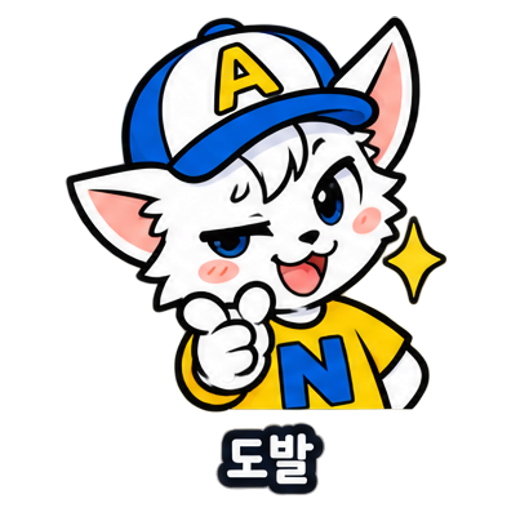
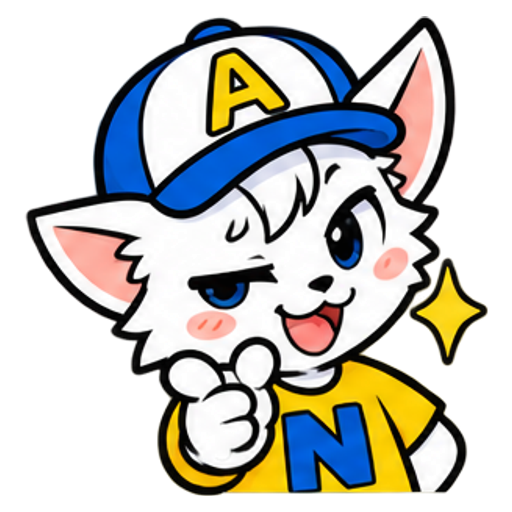
Crop emoji captions and enlarge desktop room panel by 1.5

diff --git a/WebBattle/tests/browser/naro-art.spec.ts b/WebBattle/tests/browser/naro-art.spec.ts
@@ -1,9 +1,9 @@
 import {test,expect,guestContext} from './fixtures.js';import {defaultHubSave} from '../../shared/store.js';import {NARO_EMOTES,DUST_EMOTE_IDS} from '../../shared/emotes.js';
 for(const size of ['desktop','landscape','portrait'] as const)test(`Naro art six free dust exchange ranking and tabs ${size}`,async({browser})=>{
- const mobile=size!=='desktop',viewport=size==='desktop'?{width:1366,height:900}:size==='landscape'?{width:844,height:390}:{width:390,height:844};const context=await guestContext(browser,{viewport,isMobile:mobile,hasTouch:mobile});if(size==='landscape')await context.addInitScript(()=>Object.defineProperty(window,'visualViewport',{value:Object.assign(new EventTarget(),{width:844,height:330,offsetTop:20,offsetLeft:0,scale:1})}));const page=await context.newPage(),errors:string[]=[];page.on('pageerror',e=>errors.push(e.message));const store=defaultHubSave();store.dust=400;const community={rankGames:0,friends:[],incoming:[],outgoing:[],invites:[],store},sent:any[]=[];
+ const mobile=size!=='desktop',viewport=size==='desktop'?{width:1920,height:1080}:size==='landscape'?{width:844,height:390}:{width:390,height:844};const context=await guestContext(browser,{viewport,isMobile:mobile,hasTouch:mobile});if(size==='landscape')await context.addInitScript(()=>Object.defineProperty(window,'visualViewport',{value:Object.assign(new EventTarget(),{width:844,height:330,offsetTop:20,offsetLeft:0,scale:1})}));const page=await context.newPage(),errors:string[]=[];page.on('pageerror',e=>errors.push(e.message));const store=defaultHubSave();store.dust=400;const community={rankGames:0,friends:[],incoming:[],outgoing:[],invites:[],store},sent:any[]=[];
  await page.routeWebSocket('**/socket',ws=>ws.onMessage(raw=>{const m=JSON.parse(String(raw));sent.push(m);const sync=()=>ws.send(JSON.stringify({type:'community',community}));if(m.type==='hello'){ws.send(JSON.stringify({type:'session',id:'me',uuid:'me',name:'다정한 아기땃쥐',avatar:'pronoun',rating:1000,token:'art-fixture',points:0,coins:50000}));sync()}if(m.type==='ping')ws.send(JSON.stringify({type:'pong'}));if(m.type==='ranking')ws.send(JSON.stringify({type:'ranking',tier:m.tier,players:[],total:0}));if(m.type==='storeRedeem'){store.dust-=100;store.owned.push(m.id);store.revision=(store.revision??0)+1;sync();ws.send(JSON.stringify({type:'storeResult',requestId:m.requestId,rewards:[{name:'사랑',type:'emote',duplicate:false,itemId:m.id,image:'/emotes/naro/love.png'}]}))}if(m.type==='storeEmotes'){store.emotes=m.slots;sync()}}));
  try{
- await page.goto('/');await expect(page.getByRole('tab',{name:'프로필',exact:true})).toBeVisible({timeout:45000});await expect(page.locator('.hub-identity')).toContainText('브론즈 3');for(const tab of ['홈','랭킹','친구','상점','프로필']){const button=page.getByRole('tab',{name:tab,exact:true});const img=button.locator('.game-control-icon');await expect(img).toBeVisible();expect(await img.evaluate((el:HTMLImageElement)=>el.complete&&el.naturalWidth===512)).toBe(true)}
+ await page.goto('/');await expect(page.getByRole('tab',{name:'프로필',exact:true})).toBeVisible({timeout:45000});await expect(page.locator('.hub-identity')).toContainText('브론즈 3');if(size==='desktop'){const dock=(await page.locator('.hub-room-dock').boundingBox())!;expect(dock.width).toBeCloseTo(570,0);expect(dock.height).toBeCloseTo(750,0);await page.screenshot({path:`.runtime/v85-home-${test.info().project.name}.png`})}else{await expect(page.locator('.hub-room-dock')).toHaveCount(0)}for(const tab of ['홈','랭킹','친구','상점','프로필']){const button=page.getByRole('tab',{name:tab,exact:true});const img=button.locator('.game-control-icon');await expect(img).toBeVisible();expect(await img.evaluate((el:HTMLImageElement)=>el.complete&&el.naturalWidth===512)).toBe(true)}
  await page.getByRole('tab',{name:'랭킹',exact:true}).click();await expect(page.locator('.hub-ranking-list [role=listitem]')).toHaveCount(12);await expect(page.locator('.hub-ranking-list .is-me')).toContainText('다정한 아기땃쥐');await expect(page.locator('.hub-ranking')).not.toContainText('3판 이후');await expect(page.locator('.hub-ranking')).toContainText('예시 플레이어 포함');await page.screenshot({path:`.runtime/v83-ranking-${size}-${test.info().project.name}.png`});
  await page.getByRole('tab',{name:'프로필',exact:true}).click();await page.getByRole('button',{name:'감정표현 장착',exact:true}).click();const dialog=page.getByRole('dialog',{name:'감정표현 장착',exact:true});await expect(dialog.locator('.emote-owned-list>button')).toHaveCount(6);for(const id of DUST_EMOTE_IDS){const name=NARO_EMOTES.find(e=>e.id===id)!.name;await expect(dialog.getByRole('button',{name:`${name} 선택`,exact:true})).toHaveCount(0)}await expect(dialog).toHaveCSS('animation-name','popup-panel-in');await dialog.evaluate(el=>Promise.all(el.getAnimations().map(a=>a.finished)));await page.screenshot({path:`.runtime/v83-emotes-${size}-${test.info().project.name}.png`});const bounds=(await dialog.boundingBox())!;expect(bounds.y).toBeGreaterThanOrEqual(size==='landscape'?20:0);expect(bounds.y+bounds.height).toBeLessThanOrEqual(size==='landscape'?350:viewport.height);await dialog.getByRole('button',{name:'취소',exact:true}).click();
  await page.getByRole('tab',{name:'상점',exact:true}).click();await page.getByRole('tab',{name:'이모티콘',exact:true}).click();const love=page.locator('.dust-grid article').filter({has:page.getByText('사랑',{exact:true})});await love.getByRole('button',{name:'✧ 100 · 구매',exact:true}).click();await expect(page.getByRole('dialog',{name:'상자 결과'})).toBeVisible();await page.getByRole('button',{name:'모두 열기'}).click();await page.getByRole('dialog',{name:'상자 결과'}).getByRole('button',{name:'확인',exact:true}).click();await page.getByRole('tab',{name:'프로필',exact:true}).click();await page.getByRole('button',{name:'감정표현 장착',exact:true}).click();await expect(dialog.locator('.emote-owned-list>button')).toHaveCount(7);await dialog.getByRole('button',{name:'사랑 선택',exact:true}).click();await dialog.getByRole('button',{name:'저장',exact:true}).click();expect(sent.find(m=>m.type==='storeEmotes')?.slots[0]).toBe('emote-love');expect(store.dust).toBe(300);expect(await page.evaluate(()=>scrollY)).toBe(0);expect(errors).toEqual([]);

diff --git a/WebBattle/src/game-hub.css b/WebBattle/src/game-hub.css
@@ -9,3 +9,7 @@
 @media(max-width:750px) and (orientation:portrait){.game-hub[data-hub-tab=home] .hub-identity{padding:4px 12px 4px 5px;gap:8px}.game-hub[data-hub-tab=home] .hub-wallet{gap:6px}.game-hub[data-hub-tab=home] .hub-wallet>span{padding:8px 10px;font-size:10px}.game-hub[data-hub-tab=home] .hub-wallet>button{height:34px;width:34px;font-size:20px}.game-hub[data-hub-tab=home] .hub-identity .character-avatar{--profile-size:34px}.game-hub[data-hub-tab=home] .hub-identity b{font-size:12px}.game-hub[data-hub-tab=home] .hub-kicker{font-size:10px}.game-hub[data-hub-tab=home] .hub-character-stage{margin:8px auto}.game-hub[data-hub-tab=home] .hub-main-character{max-height:none}.game-hub[data-hub-tab=home] .hub-quick{min-height:48px!important;font-size:20px!important;padding:10px 18px!important}.game-hub[data-hub-tab=home] .hub-play{padding:12px;gap:10px}.game-hub[data-hub-tab=home] .hub-shortcuts>*{font-size:10px;padding:7px 4px}.game-hub[data-hub-tab=home] .hub-tabs{border-radius:18px;margin-bottom:8px}}
 @media(orientation:landscape) and (max-height:540px){.game-hub[data-hub-tab=home] .hub-identity{padding:3px 12px 3px 4px;gap:6px}.game-hub[data-hub-tab=home] .hub-wallet>button{height:31px;width:31px}.game-hub[data-hub-tab=home] .hub-tabs{margin-bottom:5px;border-radius:14px}.game-hub[data-hub-tab=home] .hub-kicker{padding:3px 12px;font-size:9px;letter-spacing:1px}.game-hub[data-hub-tab=home] .hub-hero{padding:0 12px 2px}.game-hub[data-hub-tab=home] .hub-play{width:340px;max-width:100%;padding:7px 12px 6px;border-radius:16px;gap:5px}.game-hub[data-hub-tab=home] .hub-quick{min-height:34px!important;padding:4px 16px!important;font-size:16px!important}.game-hub[data-hub-tab=home] .hub-shortcuts{gap:5px}.game-hub[data-hub-tab=home] .hub-shortcuts>*{min-height:24px;padding:4px 7px;font-size:10px;border-radius:7px}.hub-mobile-room-window .hub-room-list{padding-top:12px}.hub-mobile-room-window .hub-section-title{padding-right:23px}.hub-mobile-room-window .hub-room-close{top:6px;right:7px;font-size:22px;height:26px;width:26px;min-height:26px}.hub-mobile-room-window .hub-empty{min-height:45px}}
 @media(orientation:landscape) and (max-height:540px){.game-hub[data-compact=true] .hub-hero{display:flex;flex-direction:row;align-items:center;gap:12px;max-width:100%;padding:0 12px 3px}.game-hub[data-compact=true] .hub-kicker{position:absolute;top:0;left:24%;transform:translateX(-50%);z-index:2;white-space:nowrap}.game-hub[data-compact=true] .hub-character-stage{height:100%;max-width:none;width:auto;margin:0;flex:1}.game-hub[data-compact=true] .hub-play{width:320px;max-width:48%;margin:0 0 5px;align-self:flex-end}}
+
+/* Desktop room dock: previous 380x500 ceiling -> 570x750; fit short viewports. */
+.game-hub[data-hub-tab=home][data-compact=false] .hub-home{grid-template-columns:minmax(0,1fr) minmax(0,570px)}
+.game-hub[data-hub-tab=home][data-compact=false] .hub-room-dock{height:min(750px,100%)}

diff --git a/WebBattle/src/buildVersion.ts b/WebBattle/src/buildVersion.ts
@@ -1,1 +1,1 @@
-export const BUILD_VERSION = 'v0.9.84';
+export const BUILD_VERSION = 'v0.9.85';

diff --git a/WebBattle/docs/FIX-v0.9.85.md b/WebBattle/docs/FIX-v0.9.85.md
@@ -1,0 +1,8 @@
+# v0.9.85
+
+- import-naro-art.mjs가 원본 시트의 독립된 하단 글자 알파 요소를 제외한다. 윗줄 글자(y441~498), 아랫줄 글자(y858~918)의 요소 중심을 기준으로 제외해 캐릭터 몸체·주변 효과는 유지한다. 원본은 보존한다.512×512 투명 정사각/비율 유지. UI 아이콘은 바꾸지 않았다.
+- PC(data-compact=false)의 방 패널 폭380→570, 높이 상한500→750. 즉 가로·세로1.5배이며 작은 뷰포트에서는 가용 높이로 제한한다. 모바일 방 목록은 버튼을 눌러 여는 기존 동작과 크기를 유지한다.
+- 그림10개의 contact sheet와1920×1080 홈 화면 캡처를 직접 확인했다.
+- 리소스/장착/구매 테스트3개 통과. npm run build 및 최종 tsc 통과.
+- Chromium/WebKit PC1920×1080, 모바일가로844×390(visualViewport330/top20), 세로390×844에서 UI검사. PC570×750 실제 크기, 모바일 상시패널 없음, 아이콘/장착/별가루 교환 동작을 함께 확인한다. 실물 휴대폰 검증은 아니다.
+- 서버/공유 규칙 변경 없음. Cloudflare는 재배포하지 않는다. Netlify의 같은 Git HEAD ready 및 운영 화면 검사 후 보고한다.

diff --git a/WebBattle/README.md b/WebBattle/README.md
@@ -1,3 +1,9 @@
+## v0.9.85 — 이모지 글자 제거 / PC 방 패널 확대
+
+- 이모지10개 이미지의 아래쪽 인쇄 글자만 제거하고 그림·효과·투명512px을 유지했습니다.
+- PC 홈의 방 목록 패널을380×500에서570×750 기준으로 확대했습니다. 화면 높이가 부족하면 화면 안으로 제한하며 모바일은 기존 방식입니다.
+- [검증 기록](docs/FIX-v0.9.85.md)
+
 ## v0.9.84 — 카드 채움 로딩 / 실제 진행률
 
 - 움직이는 머리 아이콘과 하단 그림을 빼고, 카드가 아래에서 위로 차오르는 로딩 화면으로 바꿨습니다.

diff --git a/WebBattle/public/emotes/naro/README.md b/WebBattle/public/emotes/naro/README.md
@@ -1,1 +1,1 @@
-User supplied Naro sheet: assets-source/Emotes10.png. Rebuild: node scripts/import-naro-art.mjs. Alpha components isolate protruding ears/effects; hello/thanks contact boundary is separated at x=323. Labels preserved; transparent 512px contain; no rotation or stretching. Six free emotions; mistake/taunt/yawn/love are 100-dust exchange items.
+User supplied Naro sheet: assets-source/Emotes10.png. Alpha-connected components (with a contact boundary for hello/thanks) in scripts/import-naro-art.mjs; printed captions removed; transparent 512px contain; no stretching.
